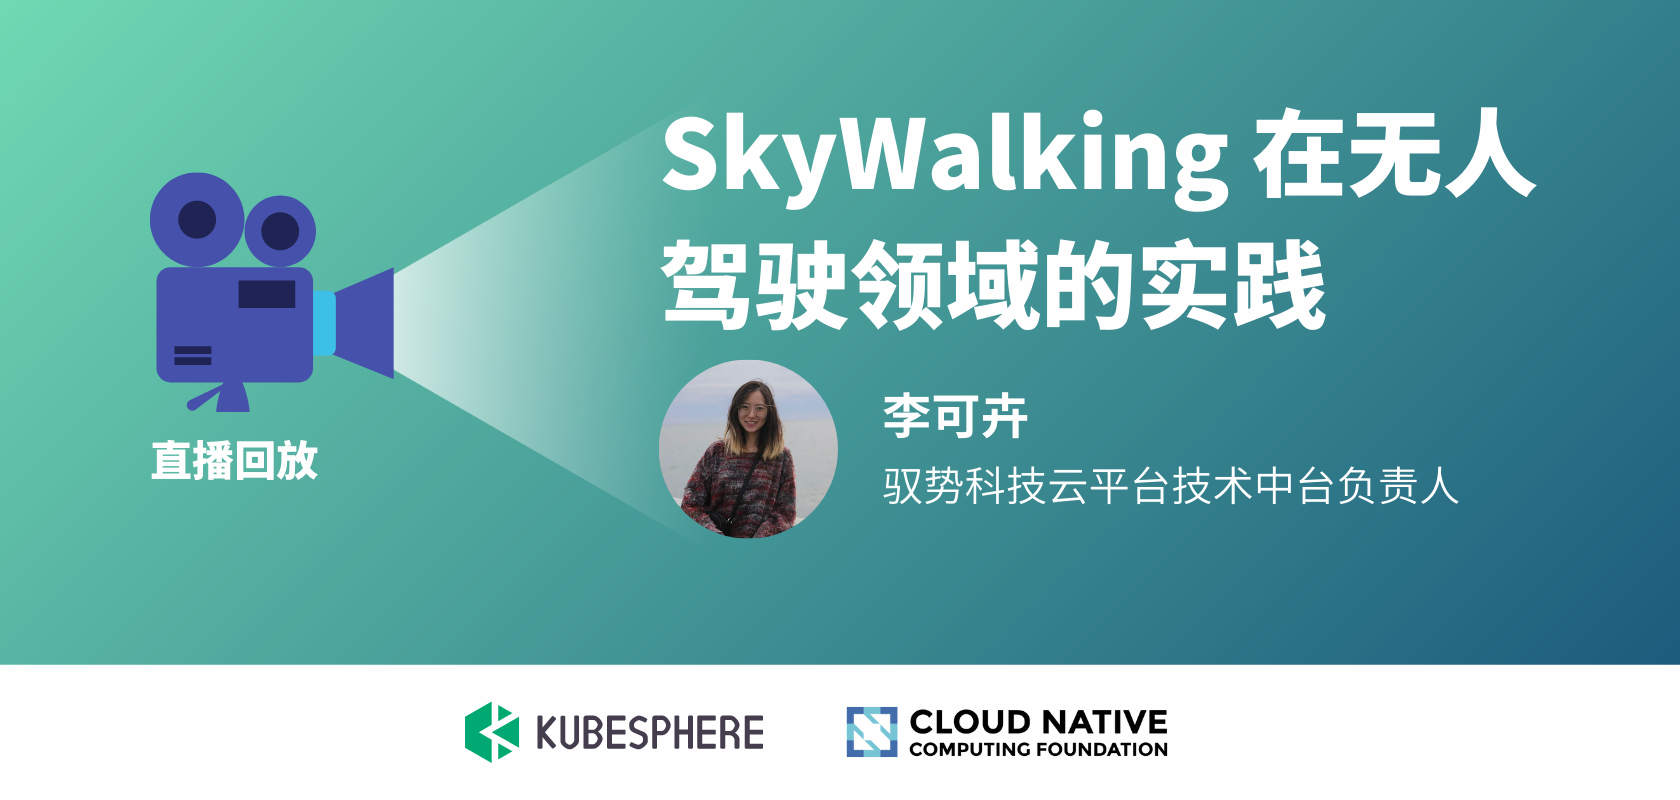
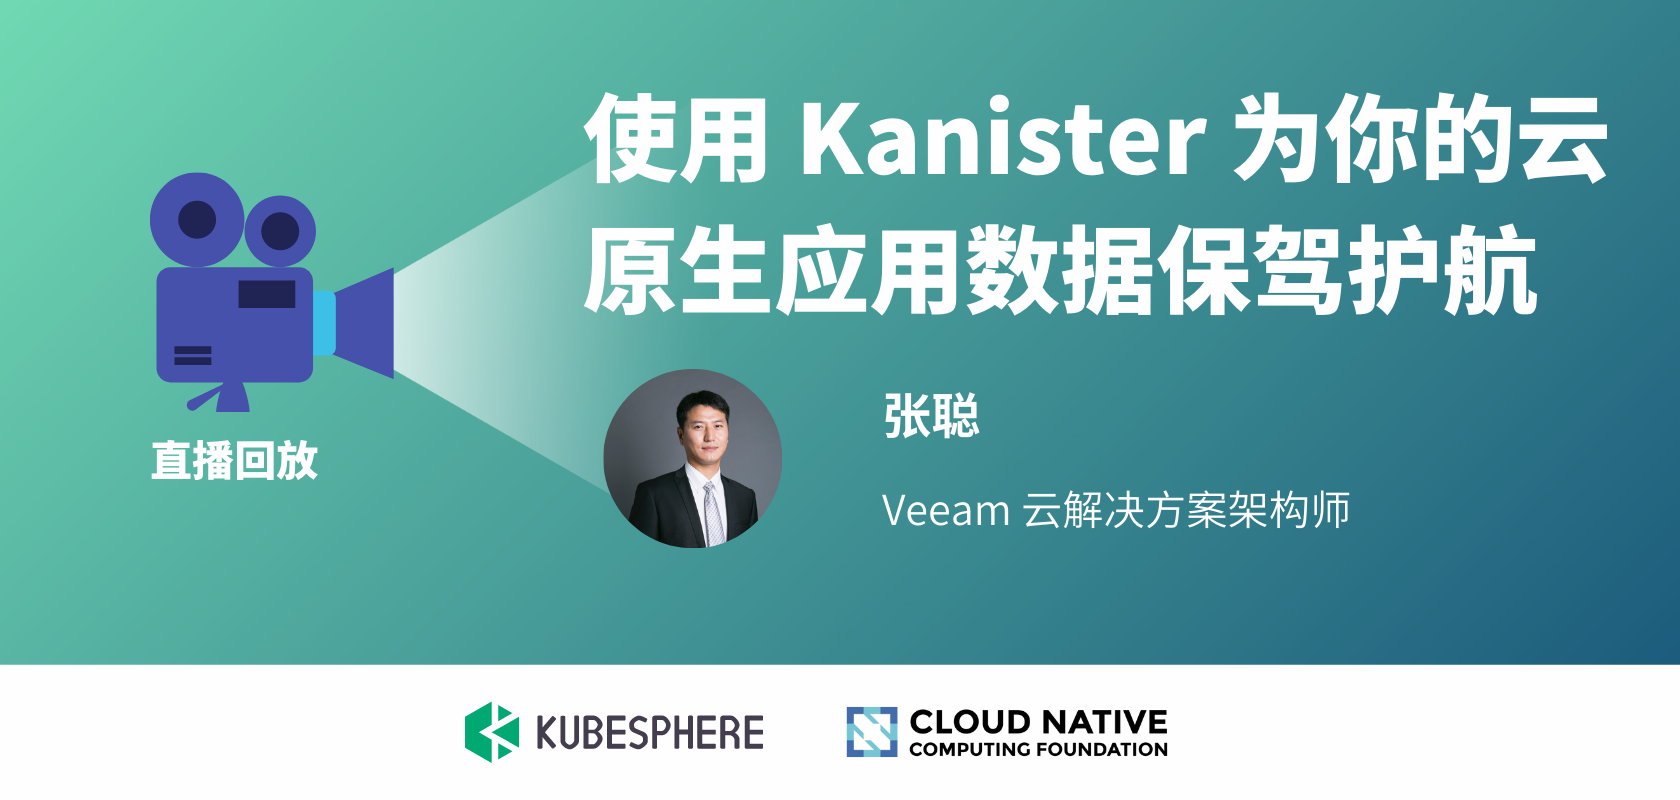
update the page of live

Changed region(s): [[0.3405, 0.0938, 0.9595, 0.4062], [0.3405, 0.4375, 0.4952, 0.6875], [0.5262, 0.4688, 0.8667, 0.6562]]

diff --git a/content/zh/live/milvus0324-live.md b/content/zh/live/milvus0324-live.md
@@ -1,0 +1,43 @@
+---
+title: 使用 KubeSphere 快速部署开源向量数据库 Milvus 2.0
+description: 本次直播，我们将为大家介绍如何使用 KubeSphere 快速部署开源向量数据库 Milvus 2.0。
+keywords: KubeSphere, Kubernetes, Milvus, 向量数据库, 人工智能
+css: scss/live-detail.scss
+
+section1:
+  snapshot: 
+  videoUrl: 
+  type: iframe
+  time: 2022-03-24 20:00-21:00
+  timeIcon: /images/live/clock.svg
+  base: 线上
+  baseIcon: /images/live/base.svg
+---
+## 分享内容简介
+
+Milvus 为解决非结构化数据的检索问题而生：海量的非结构化数据在通过深度学习网络后转化成 embedding 向量，并在向量空间内完成近似性检索，从而发现数据背后的一些特征。
+
+Milvus 2.0 采用了相较于 Milvus 1.0 更加云原生的架构、拥有更高的灵活性和查询效率。
+
+Milvus 已被广泛应用在推荐系统、商品搜索、智能问答机器人、视频去重等多种场景，助力了全球超过 1200 间企业的 AI 场景落地。
+
+相较于使用 Helm 或是 K8s Operator 的部署方式，KubeSphere 可直观地可视化部署 Milvus 集群，大大降低了用户的使用门槛。
+
+本次直播，我们将为大家介绍如何使用 KubeSphere 快速部署开源向量数据库 Milvus 2.0。
+
+## 讲师简介
+
+李云梅，Zilliz DevOps 工程师。毕业于华中科技大学计算机系。加入 Zilliz 以来，致力于为开源向量数据库 Milvus 探索解决方案，帮助用户打造场景应用。目前主专注于 DevOps、Kubernetes、云原生等相关技术的工作。
+
+## 分享大纲
+
+![](https://pek3b.qingstor.com/kubesphere-community/images/milvus0324-live.png)
+
+## 直播时间
+
+2022 年 03 月 24 日 20:00-21:00
+
+## 直播地址
+
+B 站  http://live.bilibili.com/22580654
+

diff --git a/content/zh/live/_index.md b/content/zh/live/_index.md
@@ -10,22 +10,29 @@ section1:
 
 section2:
   image: /images/live/cloudnative-live-banner.png
-  url: ./skywalking0310-live/
+  url: ./kasten0317-live/
 
   notice:
-    title: 使用 Kanister 为你的云原生应用数据保驾护航
+    title: 使用 KubeSphere 快速部署开源向量数据库 Milvus 2.0
     tag: 预告
-    time: 2022 年 03 月 17 日晚 8 点
+    time: 2022 年 03 月 24 日晚 8 点
     base: 线上
-    url: ./kasten0317-live/
+    url: ./milvus0324-live/
 
   over:
     title: 详解 K8s 服务暴露机制与 OpenELB 负载均衡器插件
-    url: ./k8s0303-live/
+    url: ./skywalking0310-live/
     tag: 结束
 
 section3:
   videos:
+    - title: 使用 Kanister 为你的云原生应用数据保驾护航
+      link: ./kasten0317-live/
+      snapshot: https://pek3b.qingstor.com/kubesphere-community/images/kasten0317-live-cover.png
+      type: iframe
+      createTime: 2022.03.17
+      group: 直播回放 
+
     - title: 生产化集群的 Day2 运营思考
       link: ./changsha0312-cluster/
       snapshot: https://pek3b.qingstor.com/kubesphere-community/images/meetup-changsha-cluster-cover.png
